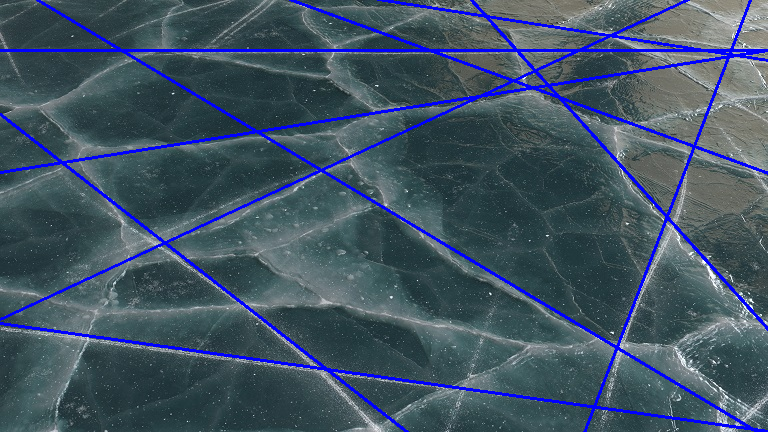
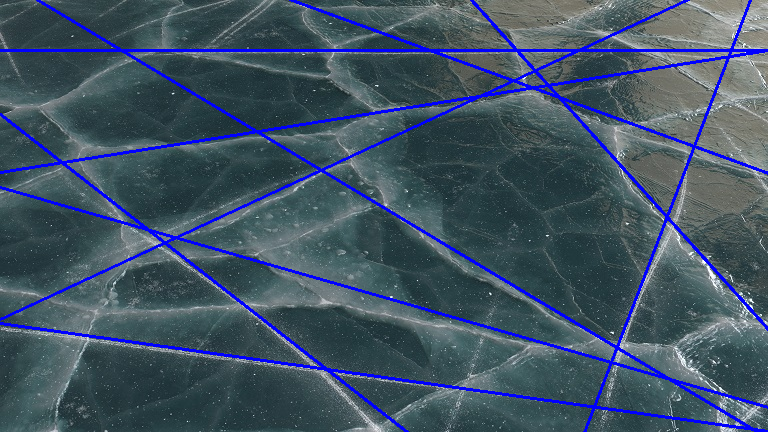
updated images

diff --git a/cv_lines.md b/cv_lines.md
@@ -52,7 +52,7 @@ Additionally, this form gives us a lot of benefits over the slope-intercept form
 The rest of the benefits will become evident when we talk more about the Hough transform.
 
 There are still cases where we would want to have the slope-intercept form of a line.
-This can be easily calculate: $m = \cot(\theta)$ and $b = -\rho \cdot \csc(\theta)$.
+This can easily be calculate: $m = \cot(\theta)$ and $b = -\rho \cdot \csc(\theta)$.
 
 
 ## Hough Space
@@ -121,11 +121,12 @@ They are sort of reflected over the image. <!-- needs work -->
 So far we have our Hough space matrix that has peaks where the lines are.
 All we need to do is to extract the lines from this matrix; easier said than done.
 
-The most accurate way to do this would be to use gradient ascent.
+The most accurate way to do this would be to use [gradient ascent](https://en.wikipedia.org/wiki/Gradient_descent).
 However, for a demo, it is good enough to just pick the spots with the most votes and filter out similar lines.
-Regardless, the complexity of the Hough transform is $O(n^2)$ because we have to run the hough transform for each pixel <!-- this doesn't really add anything -->
+Regardless, the complexity of the Hough transform is $O(n^2)$ because we have to run the hough transform for each pixel. <!-- this doesn't really add anything -->
 
 Ones we found a peak, which is just a $(\theta, \rho)$ point in hough space we can convert it into a line in images space, and then we are done. We have successfully found a line.
+I also draw the lines on the images to make it more clear what lines we found.
 
 <!-- code: ??? -->
 
@@ -138,11 +139,9 @@ We talk more about this in the next section.
 
 ## Results
 When we finally run the full algorithm to get out our line we can then plot the lines on the image.
-If we use our section logo limited to 14 lines we get the following:
+If we use our section logo limited to 16 lines we get the following:
 
 ![alt text](cv_lines_images/section-logo_with_lines.png "Section Logo with lines")
-
-<!-- why does it have a hard time getting the last two or 3 lines? IDK-->
 
 Now, the section logo is made up of straight lines so it is not as impressive to find them.
 If we instead use a more complicated image, we will get a better understanding of how well this method works.
